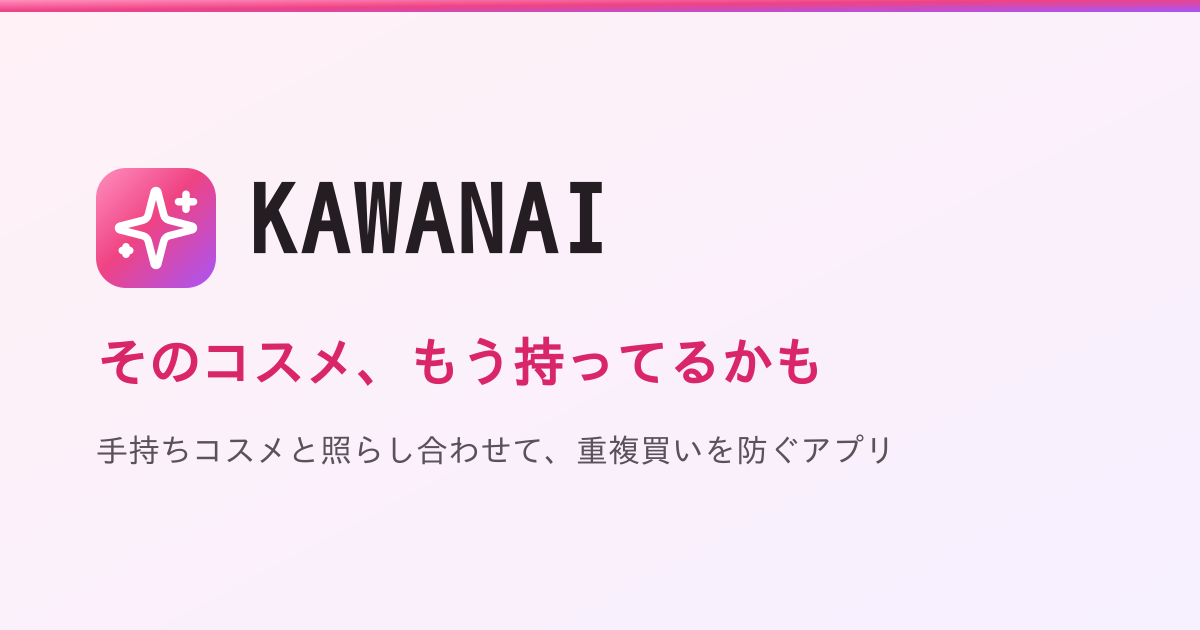
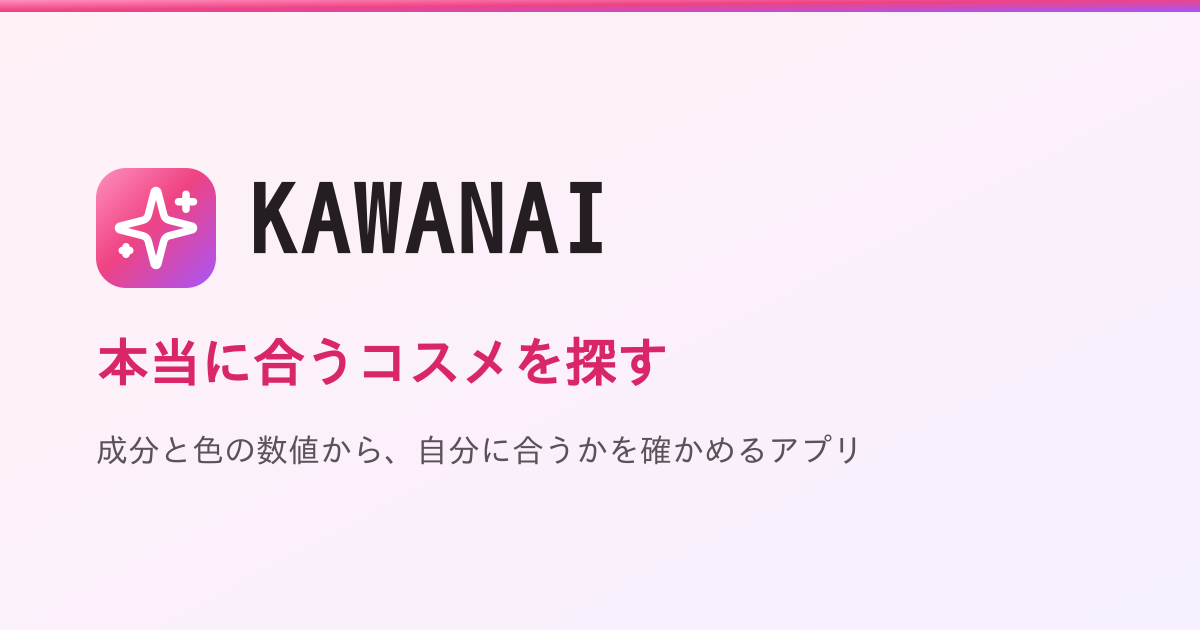
キャッチコピーから「もう持ってるかも」「買わない」を削除し、合うものを探すコンセプトに統一

Changed region(s): [[0.0617, 0.5127, 0.6783, 0.6333], [0.0617, 0.6937, 0.74, 0.754]]

diff --git a/src/app/page.tsx b/src/app/page.tsx
@@ -62,8 +62,8 @@ function LandingPage({ products }: { products: Product[] }) {
             自分に合ってる？
           </h1>
           <p className="mt-5 max-w-xl text-sm leading-relaxed text-ink-600 sm:text-base">
-            成分・色・口コミから、気になった商品が自分に合いそうかを判定します。
-            買う前に知れば、買わないほうがいい理由も見つかります。
+            成分・色・口コミから、気になった商品が本当に自分に合うかを判定します。
+            数値で確かめて、納得して選べます。
           </p>
           <div className="mt-7 flex flex-wrap gap-2">
             <Link
@@ -90,8 +90,8 @@ function LandingPage({ products }: { products: Product[] }) {
 
       <section className="space-y-4">
         <div>
-          <h2 className="font-display text-2xl font-bold">買う前に、3つの視点で確認</h2>
-          <p className="mt-1 text-sm text-ink-600">「買わない」も含めて、自分で選べます。</p>
+          <h2 className="font-display text-2xl font-bold">本当に合うか、3つの視点で確認</h2>
+          <p className="mt-1 text-sm text-ink-600">数値で確かめて、自分で選べます。</p>
         </div>
         <div className="grid grid-cols-1 gap-3 sm:grid-cols-3">
           <FeatureCard
@@ -175,12 +175,12 @@ function PersonalizedHome({
       <section className="border-b border-ink-200 pb-6">
         <p className="text-sm text-ink-500">こんにちは、{displayName}さん</p>
         <h1 className="mt-1 font-display text-3xl font-bold leading-tight sm:text-4xl">
-          今日の「買わない」を
+          本当に合うものを
           <br />
           見つけよう。
         </h1>
         <p className="mt-3 max-w-xl text-sm leading-relaxed text-ink-600">
-          手持ちと肌情報をもとに、あなたに必要なものだけを探せます。
+          肌情報と手持ちをもとに、あなたに合うものだけを探せます。
         </p>
       </section>
 

diff --git a/src/app/layout.tsx b/src/app/layout.tsx
@@ -20,9 +20,9 @@ const display = Playfair_Display({
   display: "swap",
 });
 
-const title = "KAWANAI — そのコスメ、もう持ってるかも";
+const title = "KAWANAI — 本当に合うコスメを探す";
 const description =
-  "手持ちコスメと買おうとしている商品を照らし合わせて、「買わなくていい」を教えてくれるアプリ。";
+  "成分・色・口コミの数値から、その商品が自分に合うかを確かめられるアプリ。";
 
 // OG画像を絶対URLで出すために基準URLが必要。ローカルとプレビューでも壊れないようにフォールバックする。
 const siteUrl =

diff --git a/src/app/manifest.ts b/src/app/manifest.ts
@@ -2,10 +2,9 @@ import type { MetadataRoute } from "next";
 
 export default function manifest(): MetadataRoute.Manifest {
   return {
-    name: "KAWANAI — そのコスメ、もう持ってるかも",
+    name: "KAWANAI — 本当に合うコスメを探す",
     short_name: "KAWANAI",
-    description:
-      "手持ちコスメと買おうとしている商品を照らし合わせて、「買わなくていい」を教えてくれるアプリ。",
+    description: "成分・色・口コミの数値から、その商品が自分に合うかを確かめられるアプリ。",
     lang: "ja",
     start_url: "/",
     display: "standalone",

diff --git a/src/components/SiteHeader.tsx b/src/components/SiteHeader.tsx
@@ -24,7 +24,7 @@ export default async function SiteHeader({ isRealAccount: real }: { isRealAccoun
             <Sparkles size={16} />
           </span>
           <span className="font-display text-xl font-bold tracking-tight">KAWANAI</span>
-          <span className="hidden text-[11px] text-ink-400 sm:inline">買わない判断</span>
+          <span className="hidden text-[11px] text-ink-400 sm:inline">本当に合うものを探す</span>
         </Link>
 
         <nav className="ml-auto hidden items-center gap-4 text-sm text-ink-600 md:flex">

diff --git a/README.md b/README.md
@@ -1,6 +1,6 @@
 # KAWANAI
 
-「買わなくていい」を、成分と色の数値で証明するアプリ。
+「本当に自分に合うもの」を、成分と色の数値で見つけるアプリ。
 
 LIPS や @cosme は「何を買うか」を決めるアプリ。KAWANAI は手持ちコスメと候補商品を **全成分ベクトル**と **CIELAB の色差 ΔE(CIEDE2000)** で突き合わせ、「それ、もう持っています」「同じ処方でこっちが ¥2,820 安い」を数値で示す。
 
